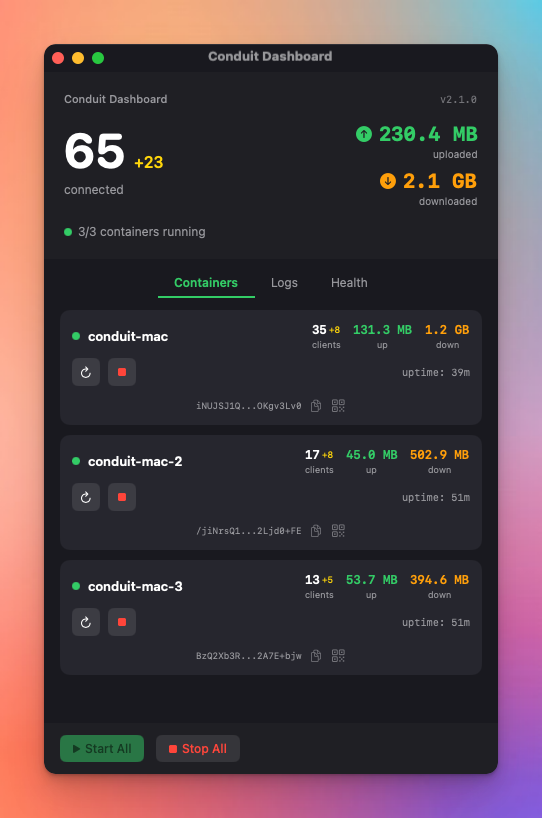
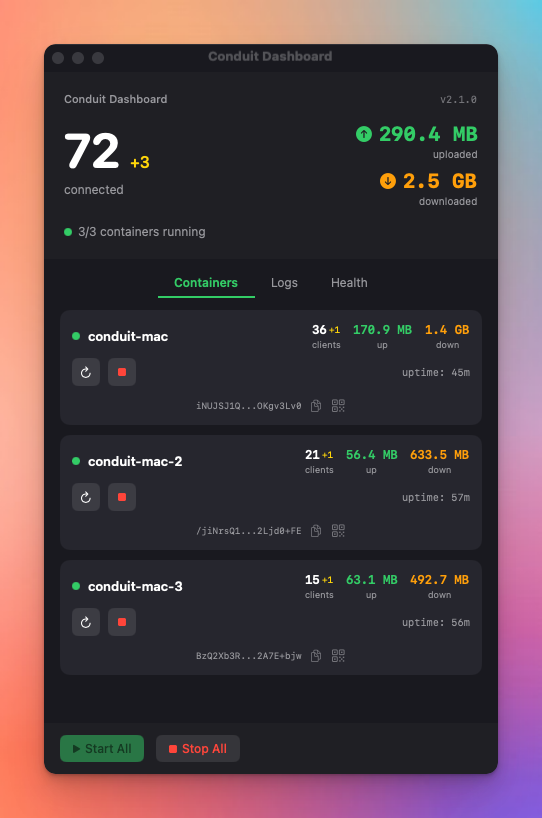
Improve README design and fix Farsi title
- Cleaner security section (bullet list instead of HTML table)
- Side-by-side images without table wrapper
- Fix Farsi section title: "نصب برای ایرانیان خارج از کشور"
- Updated dashboard screenshot
- Larger dashboard image (480px)
- Better spacing and readability

diff --git a/README.md b/README.md
@@ -1,5 +1,5 @@
 <h1 align="center">
-  <img src="https://img.shields.io/badge/🛡-Security_Hardened-green?style=for-the-badge" alt="Security Hardened">
+  <img src="https://img.shields.io/badge/🛡_Security_Hardened-green?style=for-the-badge" alt="Security Hardened">
 </h1>
 
 <h1 align="center">Psiphon Conduit Manager</h1>
@@ -11,10 +11,10 @@
 </p>
 
 <p align="center">
-  <a href="#quick-start">Quick Start</a> •
-  <a href="#security">Security</a> •
-  <a href="#features">Features</a> •
-  <a href="#فارسی">فارسی</a>
+  <a href="#-quick-start">Quick Start</a> •
+  <a href="#-security">Security</a> •
+  <a href="#-features">Features</a> •
+  <a href="#-نصب-برای-ایرانیان-خارج-از-کشور">فارسی</a>
 </p>
 
 <p align="center">
@@ -26,15 +26,11 @@
 
 ---
 
-<h2 align="center">📊 Dashboard</h2>
-
 <p align="center">
-  <img src="assets/dashboard.png" alt="Conduit Dashboard" width="420">
+  <img src="assets/dashboard.png" alt="Conduit Dashboard" width="480">
 </p>
 
-<p align="center">
-  <em>Real-time stats, per-container controls, Node IDs, QR codes for rewards</em>
-</p>
+<p align="center"><em>Dashboard with real-time stats, Node IDs, and QR codes for rewards</em></p>
 
 ---
 
@@ -60,70 +56,40 @@ Press `7` → Set limits • Press `6` → Install • Press `m` → Open Menu B
 
 ## 🛡 Security
 
-<table>
-<tr>
-<td width="50%">
-
 ### Your Mac is Fully Protected
 
-Running Conduit in Docker provides **complete isolation** from your system:
+Running Conduit in Docker provides **complete isolation**. The container:
 
-| Protection | What it means |
-|:----------:|---------------|
-| 🔒 **Read-only filesystem** | Container cannot write to your disk |
-| 🌐 **Isolated network** | No access to your local network or other apps |
-| ⬇ **Dropped capabilities** | Minimal Linux privileges (CAP_DROP=ALL) |
-| 📊 **Resource limits** | CPU & RAM are capped to your settings |
-| 🛑 **Seccomp filtering** | Dangerous system calls are blocked |
-| 🚫 **No privilege escalation** | Cannot gain root access |
+- 🔒 **Cannot access your files** - Read-only filesystem
+- 🌐 **Cannot see your network** - Isolated bridge network
+- ⬇ **Has minimal privileges** - All capabilities dropped
+- 📊 **Is resource-limited** - CPU & RAM capped to your settings
+- 🛑 **Cannot make dangerous calls** - Seccomp syscall filtering
+- 🚫 **Cannot escalate privileges** - No root access possible
 
-</td>
-<td width="50%">
+### v2.1.1 Security Fixes
 
-### v2.1.1 Security Updates
+| Fix | Description |
+|-----|-------------|
+| ✅ AppleScript injection | Path escaping in terminal launcher |
+| ✅ Path traversal | Validation in backup/restore |
+| ✅ Memory protection | Private keys cleared after use |
+| ✅ Update verification | Content validation before install |
+| ✅ Supply chain | Docker image digest verification |
 
-- ✅ **AppleScript injection** protection
-- ✅ **Path traversal** prevention in backup/restore
-- ✅ **Private keys** cleared from memory after use
-- ✅ **Update verification** with content validation
-- ✅ **Image digest** verification (supply chain security)
-
-### Why Docker?
-
-Docker containers run in a **sandbox** - even if the Conduit software were compromised, it cannot:
-- Access your files
-- See your network traffic
-- Install anything on your Mac
-- Persist after container removal
-
-</td>
-</tr>
-</table>
+> **Why Docker?** Even if Conduit were compromised, it cannot access your files, see your traffic, or persist after removal.
 
 ---
 
-## 🖥 Native macOS Apps
+## 🖥 Menu Bar & CLI
 
-<table>
-<tr>
-<td width="50%" align="center">
+<p align="center">
+  <img src="assets/menu-bar-app.png" alt="Menu Bar App" width="320">&nbsp;&nbsp;&nbsp;&nbsp;<img src="assets/cli-dashboard.png" alt="Terminal CLI" width="320">
+</p>
 
-### Menu Bar App
-<img src="assets/menu-bar-app.png" alt="Menu Bar" width="280">
-
-*Quick status at a glance*
-
-</td>
-<td width="50%" align="center">
-
-### Terminal CLI
-<img src="assets/cli-dashboard.png" alt="CLI" width="280">
-
-*Full control & configuration*
-
-</td>
-</tr>
-</table>
+<p align="center">
+  <em>Menu Bar: Quick status</em> &nbsp;•&nbsp; <em>CLI: Full configuration</em>
+</p>
 
 ---
 
@@ -132,37 +98,21 @@ Docker containers run in a **sandbox** - even if the Conduit software were compr
 | Feature | Description |
 |:-------:|-------------|
 | **Multi-Container** | Run up to 5 Conduit nodes simultaneously |
-| **Dashboard Window** | Full stats with Node IDs and QR codes |
-| **Menu Bar App** | Native macOS - see status instantly |
+| **Dashboard** | Full stats with Node IDs and QR codes |
+| **Menu Bar App** | Native macOS status at a glance |
 | **Live Stats** | Connected clients & traffic in real-time |
 | **QR Codes** | Scan to claim rewards in Ryve app |
-| **Backup & Restore** | Never lose your Node ID |
+| **Backup/Restore** | Never lose your Node ID |
 | **Auto-Updates** | One-click updates with verification |
-| **Start at Login** | Runs automatically in background |
 
 ---
 
-## 🔧 Menu Bar Icons
+## 📦 Multi-Container
 
-| Icon | Meaning |
-|:----:|---------|
-| 📡 (green) | Conduit is **running** |
-| 📡 (slashed) | Conduit is **stopped** |
-| ⚠ (warning) | Docker is **not running** |
-
-### Start at Login
-System Settings → General → Login Items → Add `Conduit-Mac.app`
-
----
-
-## 📦 Multi-Container Setup
-
-Run multiple nodes for increased contribution:
+Run multiple nodes via **Container Manager** (option `9`):
 
 ```
-Container Manager (option 9 in CLI)
-═══════════════════════════════════
-  Current: 3/5 containers
+═══ CONTAINER MANAGER ═══
 
   NAME              STATUS     CLIENTS
   conduit-mac       Running    33
@@ -170,26 +120,26 @@ Container Manager (option 9 in CLI)
   conduit-mac-3     Running    9
 ```
 
-Each container has its own Node ID, settings, and rewards tracking.
+Each container has its own Node ID and rewards tracking.
 
 ---
 
 ## ❓ FAQ
 
 **Will updating lose my Node ID?**
-> No. Updates only replace the app. Your Node ID is stored in a Docker volume which is preserved.
+> No. Your Node ID is in a Docker volume, preserved during updates.
 
 **How do I backup my Node ID?**
-> Press `b` in the CLI menu. Backups go to `~/.conduit-backups/`
+> Press `b` in CLI. Backups go to `~/.conduit-backups/`
 
-**Is this safe to run?**
-> Yes. Docker provides complete isolation. See [Security](#-security) section.
+**Is this safe?**
+> Yes. Docker provides complete isolation. See [Security](#-security).
 
 ---
 
 ## 🗑 Uninstall
 
-Press `x` in the CLI menu, or manually:
+Press `x` in the CLI menu, or:
 ```bash
 docker stop conduit-mac && docker rm conduit-mac
 docker volume rm conduit-data && docker network rm conduit-network
@@ -200,30 +150,30 @@ rm -rf ~/conduit-manager ~/.conduit-*
 
 ## Credits
 
-- [Psiphon](https://psiphon.ca/) - Psiphon Conduit project
-- [SamNet-dev/conduit-manager](https://github.com/SamNet-dev/conduit-manager) - Original Linux script
+- [Psiphon](https://psiphon.ca/) - Conduit project
+- [SamNet-dev/conduit-manager](https://github.com/SamNet-dev/conduit-manager) - Original script
 
 ---
 
-<a id="فارسی"></a>
+<a id="-نصب-برای-ایرانیان-خارج-از-کشور"></a>
 
 <div dir="rtl">
 
-## 🇮🇷 نصب برای کاربران ایرانی
+## 🇮🇷 نصب برای ایرانیان خارج از کشور
 
 ### این برنامه کاملاً امن است
 
-برنامه Conduit داخل Docker اجرا میشود که یک **محیط ایزوله** است:
+Conduit داخل Docker اجرا میشود - یک محیط کاملاً ایزوله:
 - ❌ به فایلهای شما دسترسی ندارد
-- ❌ به شبکه محلی شما دسترسی ندارد
-- ❌ نمیتواند چیزی روی مک نصب کند
-- ✅ فقط به اینترنت برای کمک به دیگران متصل میشود
+- ❌ به شبکه محلی دسترسی ندارد
+- ❌ نمیتواند چیزی نصب کند
+- ✅ فقط به مردم ایران کمک میکند به اینترنت آزاد دسترسی پیدا کنند
 
-### نصب سریع
+### نصب
 
-**مرحله ۱:** Docker Desktop را از [docker.com](https://www.docker.com/products/docker-desktop/) نصب کنید
+**۱.** Docker Desktop را از [docker.com](https://www.docker.com/products/docker-desktop/) نصب کنید
 
-**مرحله ۲:** این دستور را در Terminal اجرا کنید:
+**۲.** این دستور را اجرا کنید:
 
 </div>
 
@@ -233,7 +183,7 @@ curl -fsSL https://raw.githubusercontent.com/moghtaderi/conduit-manager-mac/main
 
 <div dir="rtl">
 
-**مرحله ۳:** برنامه را اجرا کنید:
+**۳.** برنامه را باز کنید:
 
 </div>
 
@@ -243,17 +193,17 @@ curl -fsSL https://raw.githubusercontent.com/moghtaderi/conduit-manager-mac/main
 
 <div dir="rtl">
 
-**مرحله ۴:** کلید `7` برای تنظیمات، سپس `6` برای نصب، و `m` برای باز کردن برنامه Menu Bar
+**۴.** کلید `7` سپس `6` سپس `m`
 
 </div>
 
 ---
 
 <p align="center">
-  <img src="assets/iran.png" alt="Conduit Network Map" width="700">
+  <img src="assets/iran.png" alt="Conduit Network - Iran" width="650">
 </p>
 
-<h3 align="center">#FreeIran 🕊</h3>
+<h2 align="center">#FreeIran 🕊</h2>
 
 <p align="center"><em>Every node helps someone access the free internet</em></p>
 
